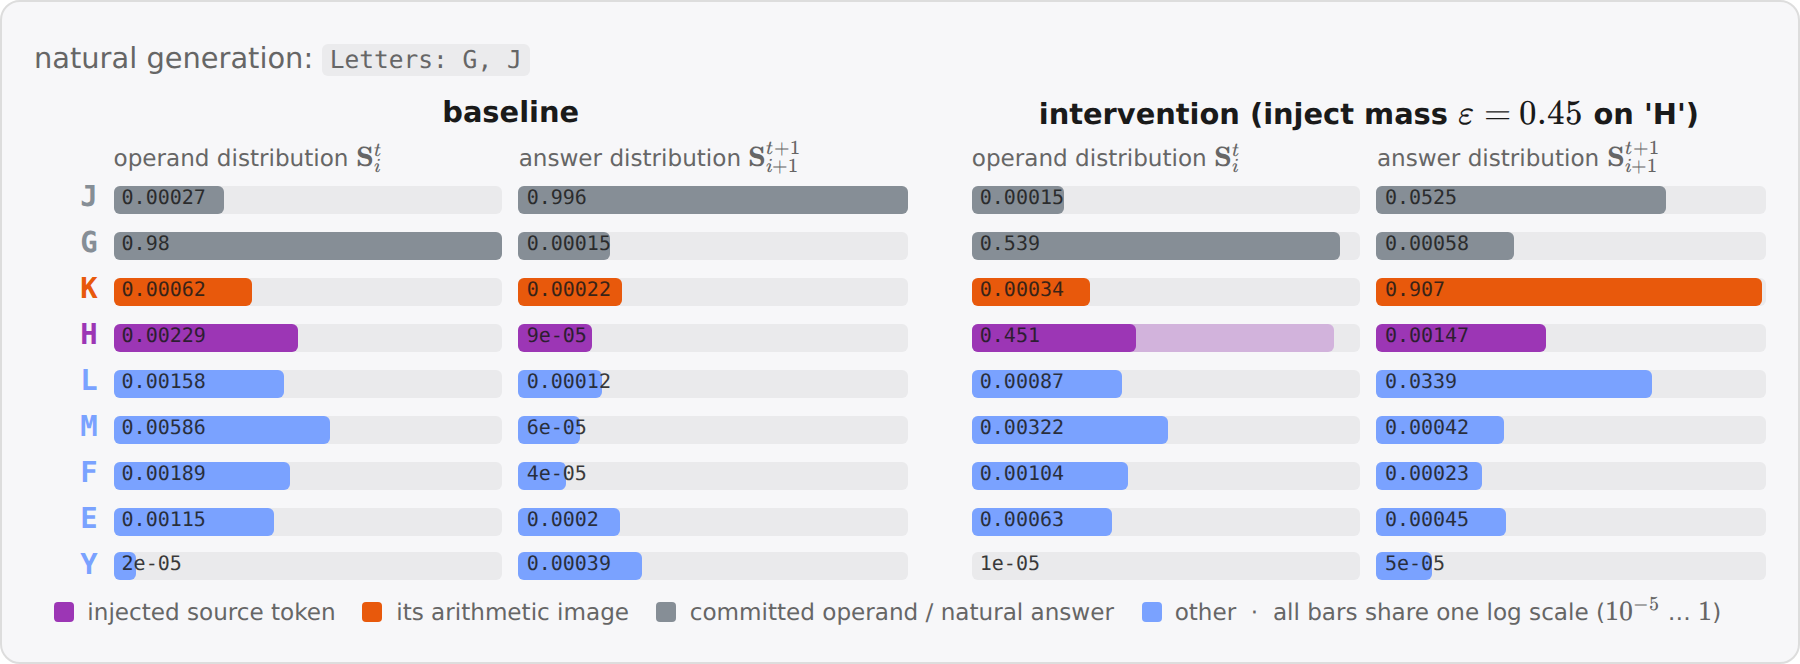
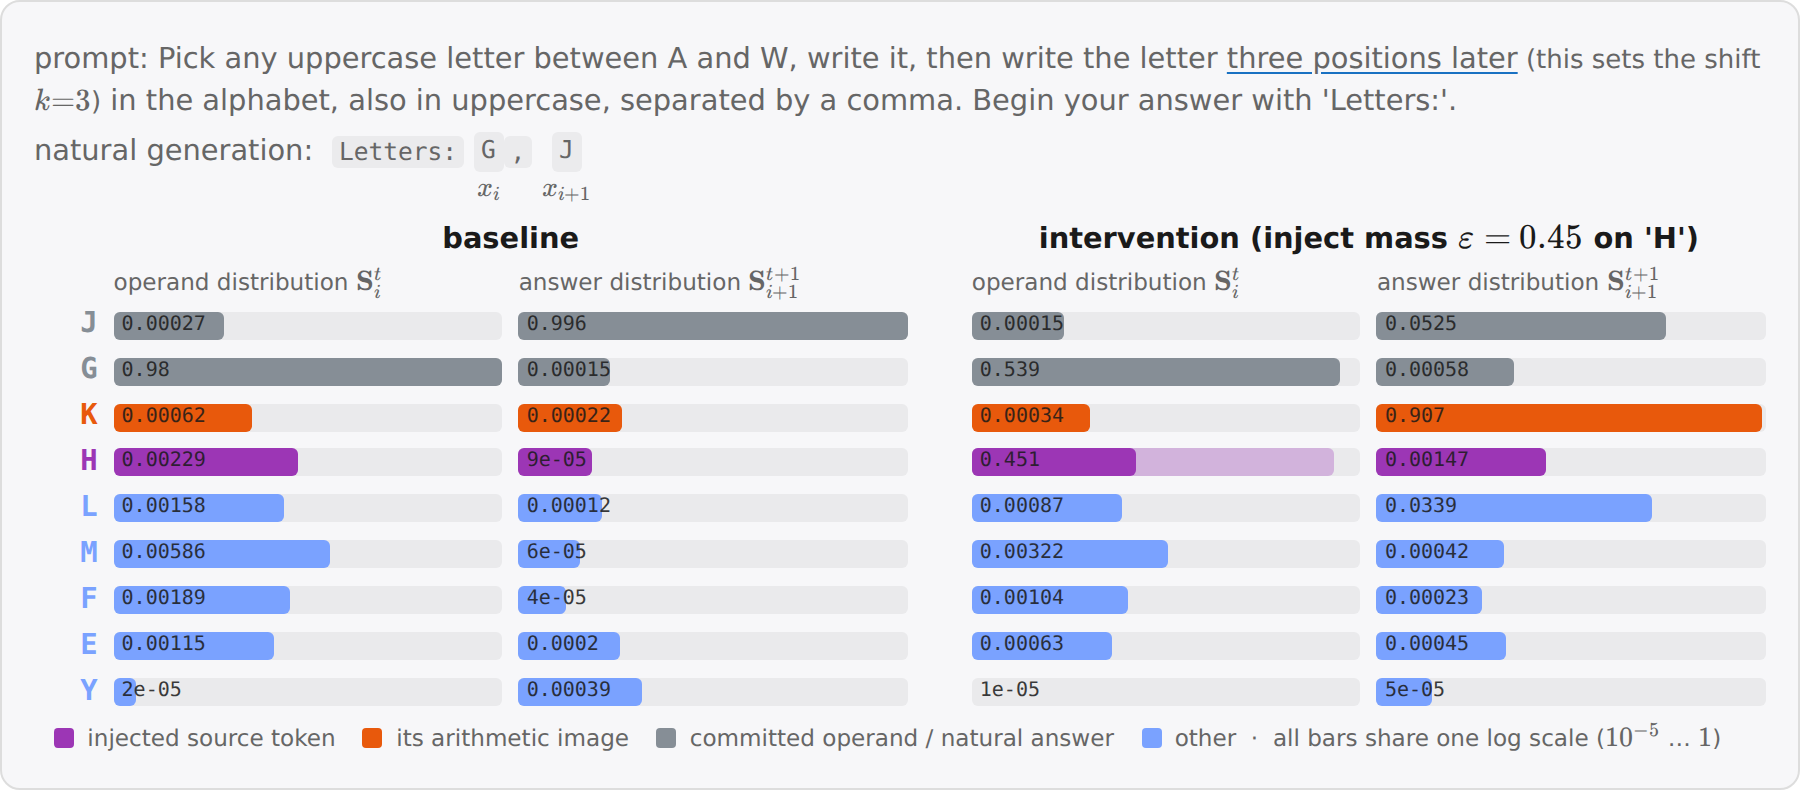
Letters card: prompt with k indicator, generation annotated with x_i / x_{i+1}
Claude-Session: https://claude.ai/code/session_01U8CiyQ7ySpBDkYEq4FzNBU

Changed region(s): [[0.0, 0.0602, 0.9956, 0.9639]]

diff --git a/post.html b/post.html
@@ -39,6 +39,10 @@ p>em:first-child{color:var(--muted)}
 .ghead .gh{font-weight:600;text-align:center}
 .ghead .gh.s2{grid-column:span 2}
 .ghead{margin:6px 0 0}
+.anntok{display:inline-flex;flex-direction:column;align-items:center;vertical-align:top}
+.annlab{font-size:.8em;color:var(--muted);line-height:1.1}
+.kn{color:var(--muted);font-size:.9em}
+.card u{text-decoration-color:var(--accent);text-underline-offset:2px}
 .brow .btok{font-family:ui-monospace,monospace;text-align:right;font-weight:600}
 .brow .btok.sm{font-weight:400;font-size:.85em;text-align:right}
 .btrack{position:relative;height:14px;background:color-mix(in srgb,var(--fg) 6%,transparent);border-radius:3px;overflow:visible}

diff --git a/scripts/build_html.py b/scripts/build_html.py
@@ -99,8 +99,17 @@ def ill_letters_example():
             ap_bar = bar(ap, col)
         body.append(f'<div class="brow b4c"><span class="btok" style="color:{col}">{E(tok)}</span>'
                     + bar(ab, col) + bar(bb, col) + "<span></span>" + ap_bar + bar(bp, col) + "</div>")
+    kword = {3: "three", 5: "five", 7: "seven", 11: "eleven"}[d["k"]]
+    prompt_html = E(d["prompt"]).replace(
+        f" {kword} positions later",
+        f' <u>{kword} positions later</u><span class="kn"> (this sets the shift $k{{=}}{d["k"]}$)</span>', 1)
+    ann = lambda tok, lab: (f'<span class="anntok"><code class="gen">{E(tok)}</code>'
+                            f'<span class="annlab">{lab}</span></span>')
+    gen_html = (f'<code class="gen">Letters:</code> {ann(d["nat"], "$x_i$")}'
+                f'<code class="gen">,</code> {ann(d["ja"], "$x_{i+1}$")}')
     return f"""<div class="card">
-<p class="small">natural generation: <code class="gen">{E(d['final'])}</code></p>
+<p class="small">prompt: {prompt_html}</p>
+<p class="small">natural generation: &nbsp;{gen_html}</p>
 {head}{''.join(body)}
 <span class="leg"><i style="background:{CL['inj']}"></i> injected source token
 <i style="background:{CL['tgt']}"></i> its arithmetic image
@@ -197,6 +206,10 @@ p>em:first-child{color:var(--muted)}
 .ghead .gh{font-weight:600;text-align:center}
 .ghead .gh.s2{grid-column:span 2}
 .ghead{margin:6px 0 0}
+.anntok{display:inline-flex;flex-direction:column;align-items:center;vertical-align:top}
+.annlab{font-size:.8em;color:var(--muted);line-height:1.1}
+.kn{color:var(--muted);font-size:.9em}
+.card u{text-decoration-color:var(--accent);text-underline-offset:2px}
 .brow .btok{font-family:ui-monospace,monospace;text-align:right;font-weight:600}
 .brow .btok.sm{font-weight:400;font-size:.85em;text-align:right}
 .btrack{position:relative;height:14px;background:color-mix(in srgb,var(--fg) 6%,transparent);border-radius:3px;overflow:visible}
